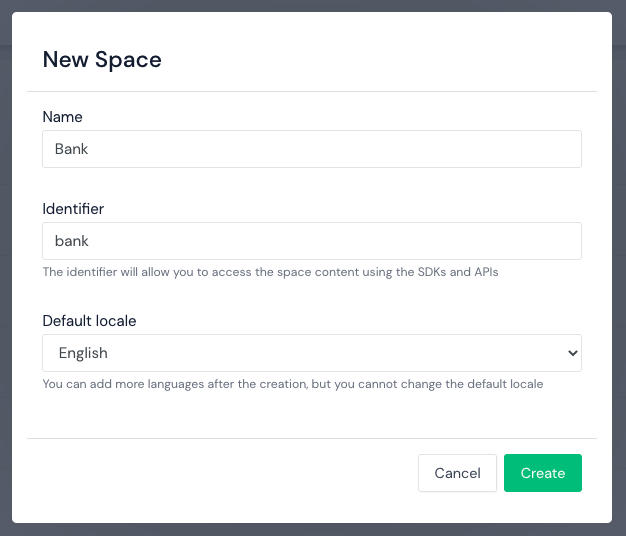
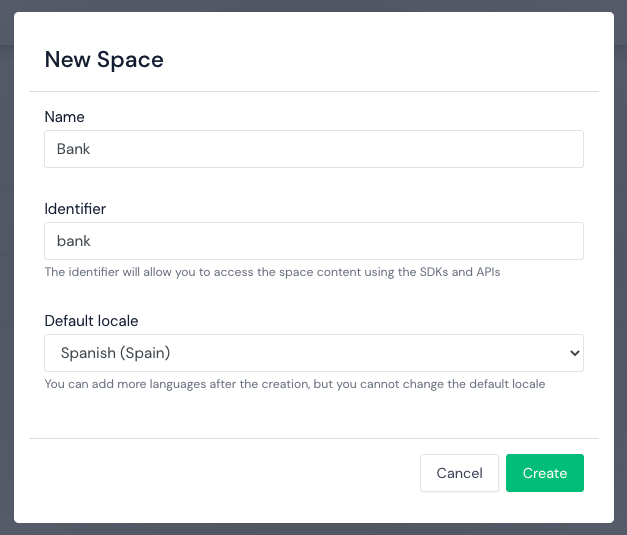
Cambios Kalle

diff --git a/docs/es/platform/tutorials/how-to-create-content.md b/docs/es/platform/tutorials/how-to-create-content.md
@@ -6,7 +6,7 @@ search: true
 
 ## Introducción
 
-Bienvenido al primer tutorial de la serie de entrenamiento de Modyo. En este primer tutorial revisaremos todo lo que necesitas saber para crear y publicar contenido con [Modyo Content](/es/platform/content), herramienta indispensable a la hora de gestionar sitios dinámicos y multiplataforma.
+Bienvenido al primer tutorial de la serie de entrenamiento de Modyo. En este primer tutorial revisaremos todo lo que necesitas saber para crear y licar contenido usando [Modyo Content](/es/platform/content), herramienta indispensable a la hora de gestionar sitios dinámicos y multiplataforma.
 
 ### Dynamic Bank
 
@@ -26,14 +26,16 @@ Para ejecutar los pasos de este tutorial debes contar únicamente con una cuenta
 
 ## Paso 1: Crear un espacio de contenidos
 
-Una vez que ingreses a Modyo con tu cuenta, iremos al modulo de [Modyo Content](/es/platform/content) para [crear nuestro primer espacio](/es/platform/content/spaces.html#crear-un-espacio), que llamaremos **"Bank"**, selecionando como idioma **Español(España)**.
+Una vez que ingreses a Modyo con tu cuenta, iremos al modulo de [Modyo Content](/es/platform/content) para [crear nuestro primer espacio](/es/platform/content/spaces.html#crear-un-espacio), que llamaremos **"Bank"**, selecionando como idioma **Spanish (Spain)**.
+
+<img src="/assets/img/tutorials/how-to-create-dynamicbank-content/new-space.png" style="border: 1px solid rgb(238, 238, 238);max-width: 200px;margin: auto 0px 20px 0px;"/>
 
 <img src="/assets/img/tutorials/how-to-create-dynamicbank-content/create-space.png" style="border: 1px solid rgb(238, 238, 238);max-width: 400px;margin: auto 0;"/>
 
 ## Paso 2: Crear tipo "Hero"
 
-Ahora necesitamos crear nuestro primer [tipo de contenido](/es/platform/content/types.html#tipos-de-contenido) en nuestro espacio **"Bank"**. 
-Una vez que estes en este espacio, debes ir a la sección **Types**, adrle click al botón superior derecho que dice **"+ Nuevo Tipo"**. 
+Ahora necesitamos crear nuestro primer [tipo de contenido](/es/platform/content/types.html#tipos-de-contenido) en nuestro espacio **"Bank"**.
+Una vez que estes en este espacio, debes ir a la sección **Types**, adrle click al botón superior derecho que dice **"+ Nuevo Tipo"**.
 
 Desde ahí, generamos nuestro primero Tipo llamado **"Hero"** con los siguientes campos:
 
@@ -101,7 +103,7 @@ Es importante guardar los cambios antes de salir.
 
 ## Paso 3: Crear y publicar entrada del Tipo "Hero"
 
-Ahora crearemos nuestra primera [entrada](/es/platform/content/entries) del tipo que acabamos de crear. Para eso, debemos ir a la sección **Entries** y hacer click en el botón **"New Entry"**, para luego selecionar el tipo "Hero" y agregar en Name **_"Donde estés, Dynamic Bank te acompaña"_**.
+Ahora crearemos nuestra primera [entrada](/es/platform/content/entries) del tipo que acabamos de crear. Para eso, debemos ir a la sección **Entries** y hacer click en el botón **Create an entry**, para luego seleccionar el tipo "Hero" y agregar en Name **_"Donde estés, Dynamic Bank te acompaña"_**.
 
 Para el resto de los campos, usaremos los siguientes valores:
 
@@ -201,7 +203,7 @@ Al igual que con el tipo "Hero" vamos a crear nuestro segundo tipo "News" consid
 
 ## Paso 5: Crear y publicar News
 
-Al igual que lo hizimos con el Hero, ahora crearemos las tres entrada para news con los siguientes campos:
+Al igual que lo hizimos con el Hero, ahora crearemos las tres entradas para news con los siguientes campos:
 
 #### Entrada Uno
 
@@ -340,7 +342,7 @@ Al igual que lo hizimos con el Hero, ahora crearemos las tres entrada para news 
 
 No olvides publicar todas tus entradas luego de crearlas.
 
-## Paso 6: Crear tipo "Benefists"
+## Paso 6: Crear tipo "Benefits"
 
 Al igual que ya hicimos con Hero y News, debemos crear nuestro nuevo tipo para Beneficios con los campos:
 
@@ -660,7 +662,7 @@ Ahora vamos a crear nuestro último tipo para los testimoniales del sitio, para 
    Single line text
   </td>
   <td>
-   Autor
+   Author
   </td>
  </tr>
  <tr>
@@ -698,7 +700,7 @@ Crear dos entrada con los siguientes campos:
  </tr>
  <tr>
   <td>
-   <b>Autor</b>
+   <b>Author</b>
   </td>
   <td>
    Adriana Perez
@@ -735,7 +737,7 @@ Crear dos entrada con los siguientes campos:
  </tr>
  <tr>
   <td>
-   <b>Autor</b>
+   <b>Author</b>
   </td>
   <td>
    Raul Díaz
@@ -765,6 +767,6 @@ No olvides publicar todas tus entradas luego de crearlas.
 
 Si llegaste hasta acá te felicitamos. Has conseguido utilizar [Modyo Content](/es/platform/content) con todo su potencial ya que utilizamos [Espacios](/es/platform/content/spaces), [Tipos](/es/platform/content/types), [Entradas](/es/platform/content/entries) y [Categorías](/es/platform/content/entries.html#categorias) para poder generar todo el contenido necesarios para armar el Home de Dynamic Bank.
 
-Ya tenemos todas nuestras entradas para poder entregarlas al Front-end y el pueda generar el Home de Dynamic Bank sin problemas mientras nosotros podemos cambiar los textos desde contenido.
+Ya tenemos todas nuestras entradas para poder entregarlas al Front-end y él pueda generar el Home de Dynamic Bank sin problemas mientras nosotros podemos cambiar los textos desde contenido.
 
 ¿Qué sigue ahora? Obtener todo este contenido desde un sitio Web creado en [Modyo Channels](/es/platform/channels).

diff --git a/docs/es/platform/tutorials/how-to-create-home.md b/docs/es/platform/tutorials/how-to-create-home.md
@@ -135,7 +135,7 @@ El HTML de ellos se encuentra dentro de la pestaña Snippets, agrupados en Gener
           >
             <path
               fill-rule="evenodd"
-              d="M2.5 11.5A.5.5 0 0 1 3 11h10a.5.5 0 0 1 0 1H3a.5.5 0 0 1-.5-.5zm0-4A.5.5 0 0 1 3 7h10a.5.5 0 0 1 0 1H3a.5.5 0 0 1-.5-.5zm0-4A.5.5 0 0 1 3 3h10a.5.5 0 0 1 0 1H3a.5.5 0 0 1-.5-.5z"
+              d="M2.5 11.5A.5.5 0 0 1 3 11h10a.5.5 0 0 1 0 1H3a.5.5 0 0 1-.5- 5zm0-4A.5.5 0 0 1 3 7h10a.5.5 0 0 1 0 1H3a.5.5 0 0 1-.5-.5zm0-4A.5.5 0 0 1 3 3h10a.5.5 0 0 1 0 1H3a.5.5 0 0 1-.5-.5z"
             />
           </svg>
         </button>
@@ -165,8 +165,8 @@ El HTML de ellos se encuentra dentro de la pestaña Snippets, agrupados en Gener
             class="modal-body p-4 navbar navbar-expand-md  navbar-light align-items-start"
           >
             <nav>
-              {% assign responsive = "Responsive" %} {% snippet
-              'shared/general/menu' %}
+              {% assign responsive = "Responsive" %}
+              {% snippet "shared/general/menu" %}
             </nav>
           </div>
         </div>
@@ -6347,7 +6347,7 @@ $('.single-item').slick({
             <img
               class="w-100"
               src="{{ entry.Image.url }}"
-              alt="{{ entry.autor }}"
+              alt="{{ entry.Author }}"
             />
           </figure>
           <div class="figcaption col-11 col-md-6">
@@ -6356,7 +6356,7 @@ $('.single-item').slick({
                 Nuestros clientes dicen...
               </h3>
               <p class="text-muted">{{ entry.Testimony }}</p>
-              <p class="text-muted font-weight-bold">{{ entry.autor }}</p>
+              <p class="text-muted font-weight-bold">{{ entry.Author }}</p>
             </figcaption>
           </div>
         </div>
